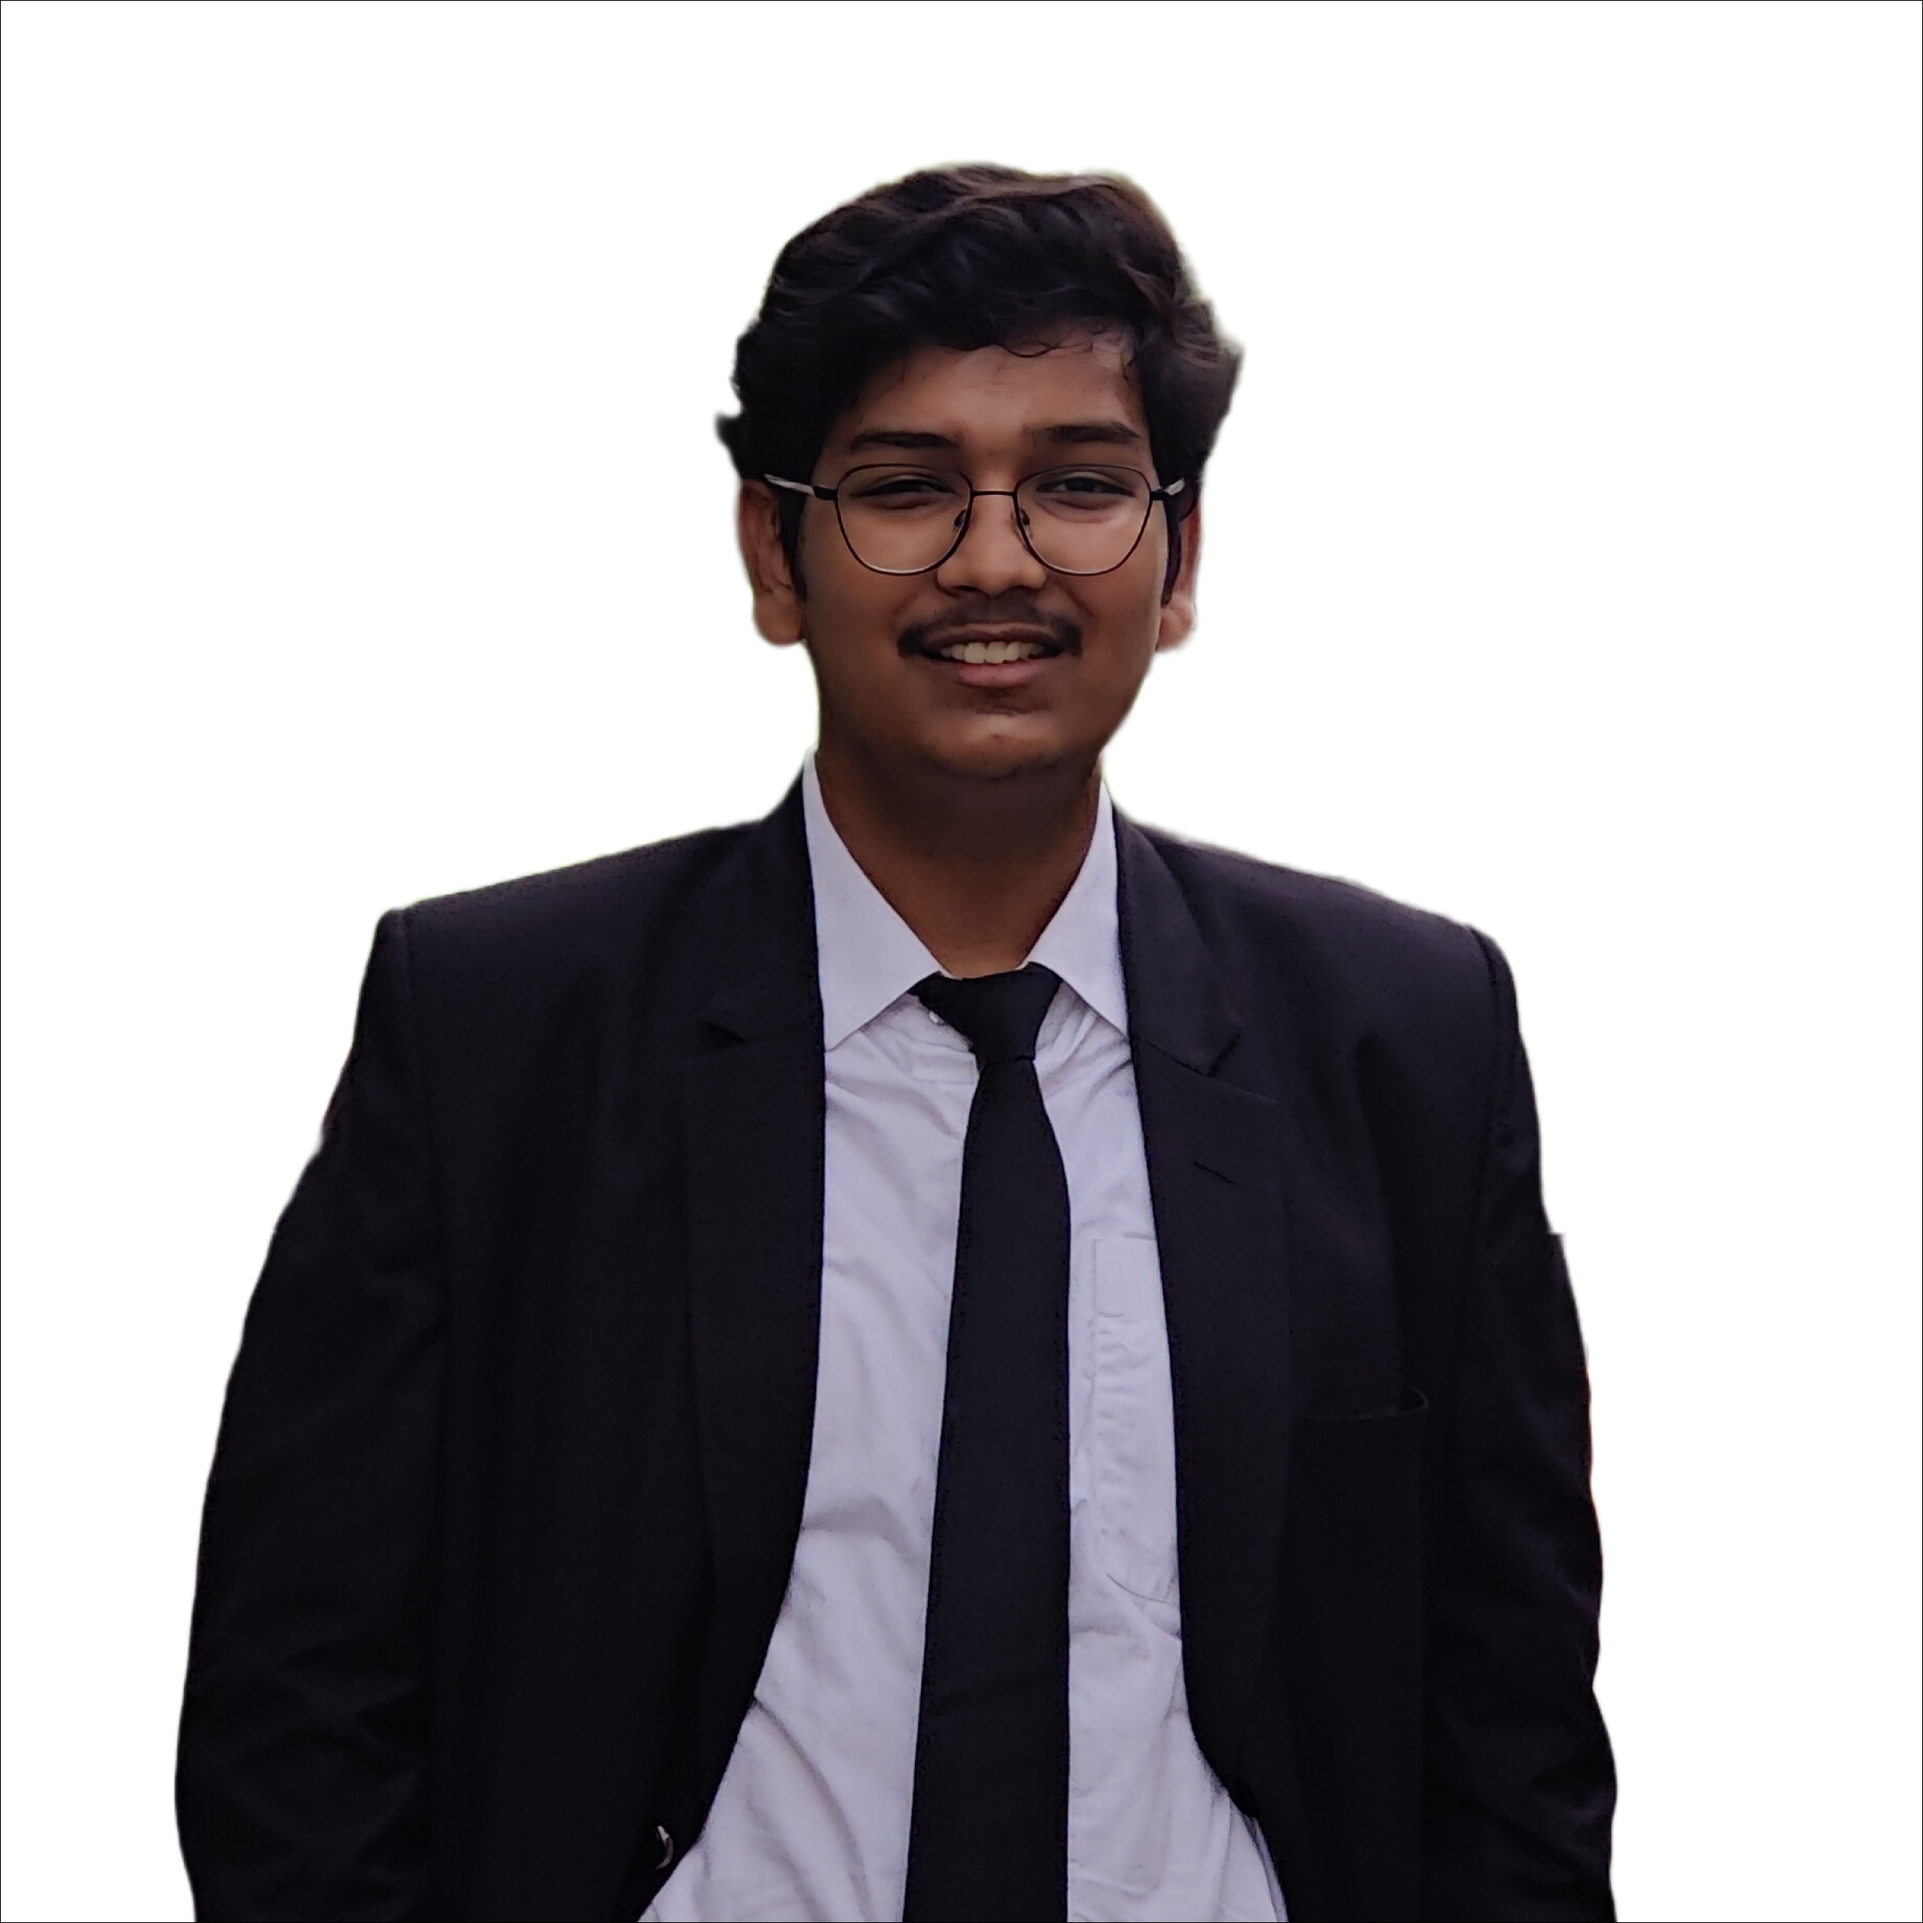
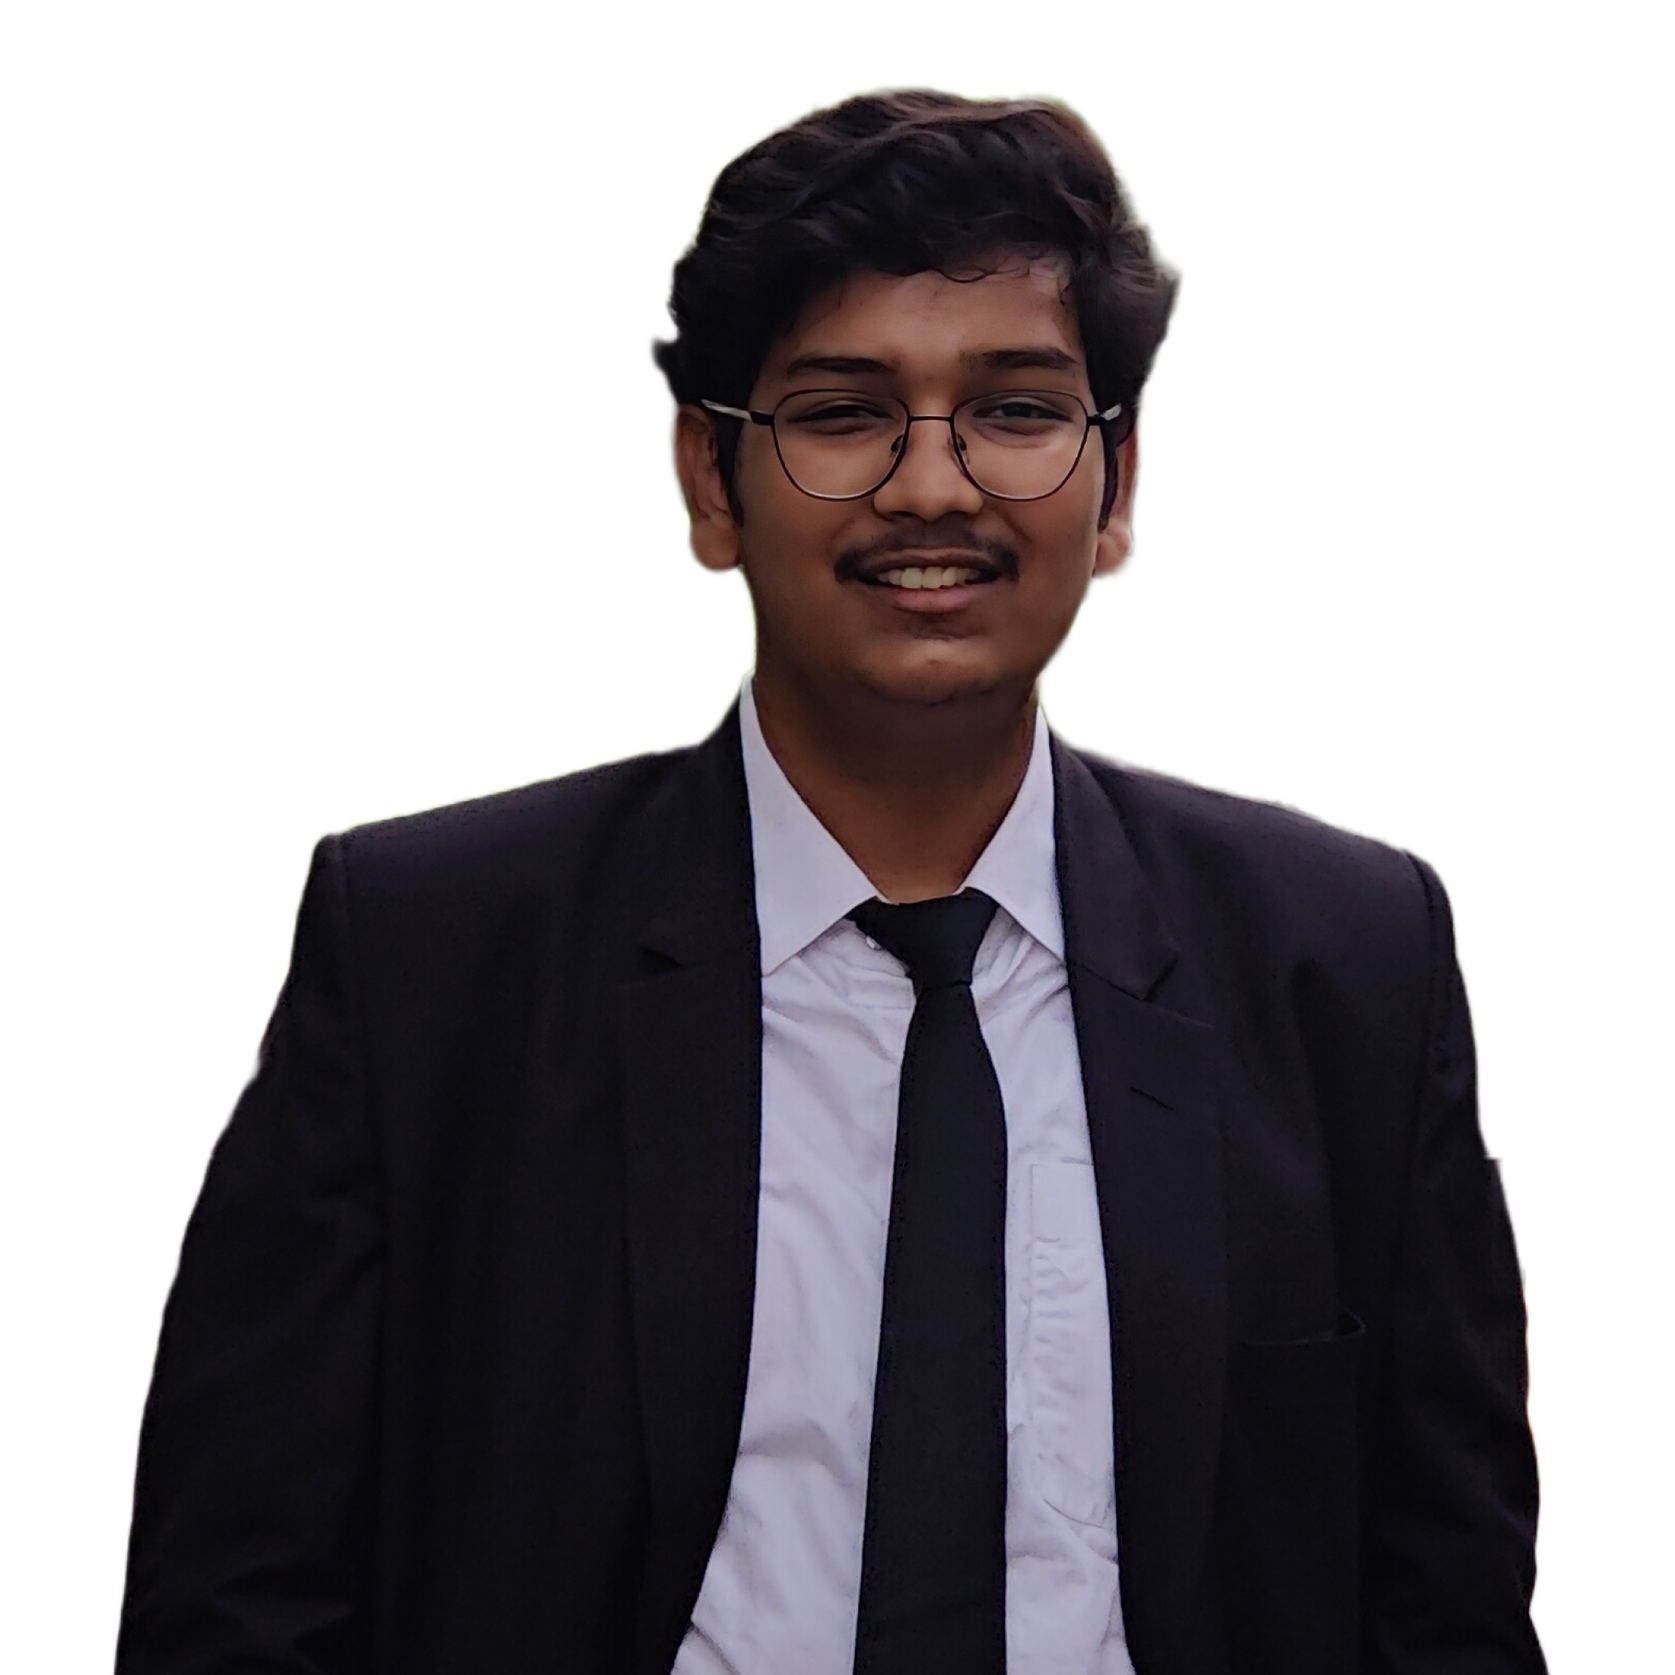
feat: Herosection responsive

diff --git a/src/components/home/herosection.tsx b/src/components/home/herosection.tsx
@@ -15,26 +15,26 @@ import { SocialUrls } from 'utils/urls';
 export default function HeroSection() {
 	return (
 		<section
-			className='home-section flex items-center justify-center relative'
+			className='home-section flex flex-col-reverse sm:flex-row gap-5 sm:gap-1 items-center justify-center relative'
 			id='herosection'
 		>
 			{/* Left */}
 			<div>
 				<div>
-					<h1 className='text-5xl font-bold mb-5 inline-block'>
+					<h1 className='text-3xl md:text-4xl lg:text-5xl font-bold mb-2 sm:mb-3 md:mb-5 inline-block'>
 						Hi, I am{' '}
 						<span className='animate-text-bg before:bg-white hover:text-black'>
 							Nimish
 						</span>
 					</h1>
-					<h2 className='text-xl font-light mb-1'>
+					<h2 className='text-sm md:text-lg lg:text-xl font-light mb-1'>
 						A Full-Stack Developer
 					</h2>
-					<h2 className='text-xl font-light mb-5'>
+					<h2 className='text-sm md:text-lg lg:text-xl font-light mb-2 sm:mb-3 md:mb-5'>
 						A Data Analytics Researcher
 					</h2>
 				</div>
-				<div className='flex gap-2 mb-4 text-2xl'>
+				<div className='flex gap-1 md:gap-2 mb-4 text-xl md:text-2xl'>
 					<Link passHref href={SocialUrls.github}>
 						<a
 							target='_blank'
@@ -72,7 +72,7 @@ export default function HeroSection() {
 						</a>
 					</Link>
 				</div>
-				<div className='flex gap-2 item-center justify-center w-fit'>
+				<div className='flex gap-2 item-center justify-center w-fit text-sm sm:text-base'>
 					<Button variant='primary'>
 						<Link href='https://resume.nimish-jain.com'>
 							View Resume
@@ -92,13 +92,13 @@ export default function HeroSection() {
 				</div>
 			</div>
 			{/* Right */}
-			<div>
+			<div className='w-3/4 sm:w-fit'>
 				<Image
+					className='rounded-full'
 					height={500}
 					width={500}
 					src='/images/nimish-nobg.png'
 					alt='Nimish Jain'
-					className='rounded-full border-ima'
 				/>
 			</div>
 			<LinkScroll

diff --git a/src/styles/globals.css b/src/styles/globals.css
@@ -9,12 +9,12 @@ html {
 @layer components {
 	/* Every section container of Home Route */
 	.home-section {
-		@apply min-h-screen min-w-full py-16 px-20;
+		@apply min-h-screen min-w-full py-16 px-3 sm:px-6 md:px-10 lg:px-20;
 	}
 
 	/* Primary Button */
 	.primary-button {
-		@apply relative block overflow-hidden px-4 py-2 bg-transparent hover:text-white border-1 border-solid border-blue-800 cursor-pointer active:bg-blue-900;
+		@apply relative block overflow-hidden px-4 py-2 bg-transparent hover:text-white border-1 border-solid border-blue-800 cursor-pointer active:bg-blue-900 delay-300;
 	}
 
 	.primary-button span {
@@ -36,7 +36,7 @@ html {
 		overflow: hidden;
 		transition: all 0.2s linear;
 		line-height: 1;
-		margin-bottom: -10px;
+		margin-bottom: -0.15em;
 	}
 
 	.animate-text-bg::before {
@@ -46,7 +46,7 @@ html {
 		right: 0;
 		bottom: 0;
 		left: 0;
-		transform: translateX(-100%);
+		transform: translateX(-101%);
 		transition: all 0.2s linear;
 	}
 
